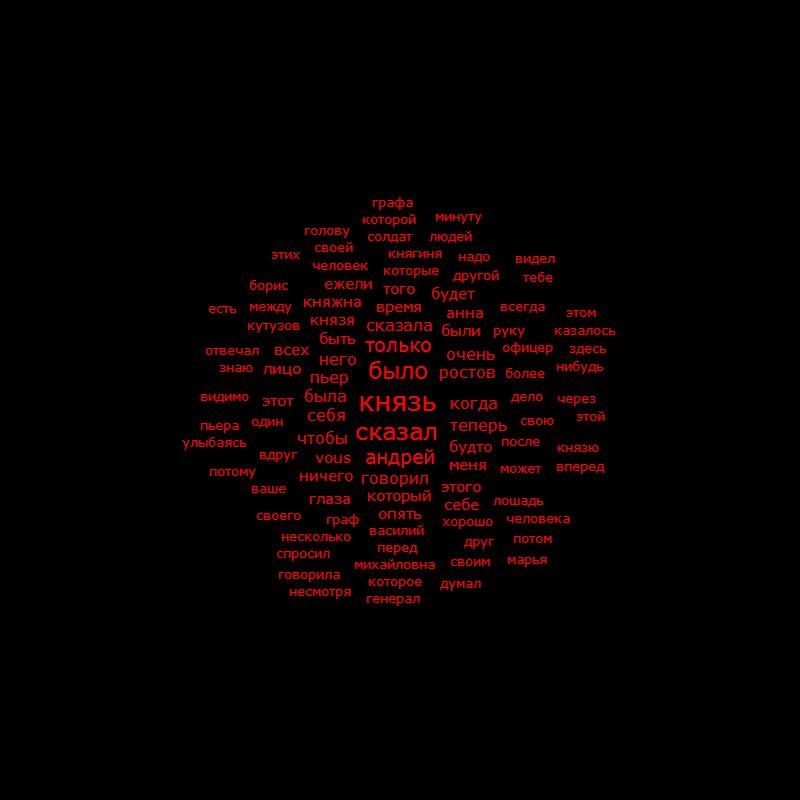
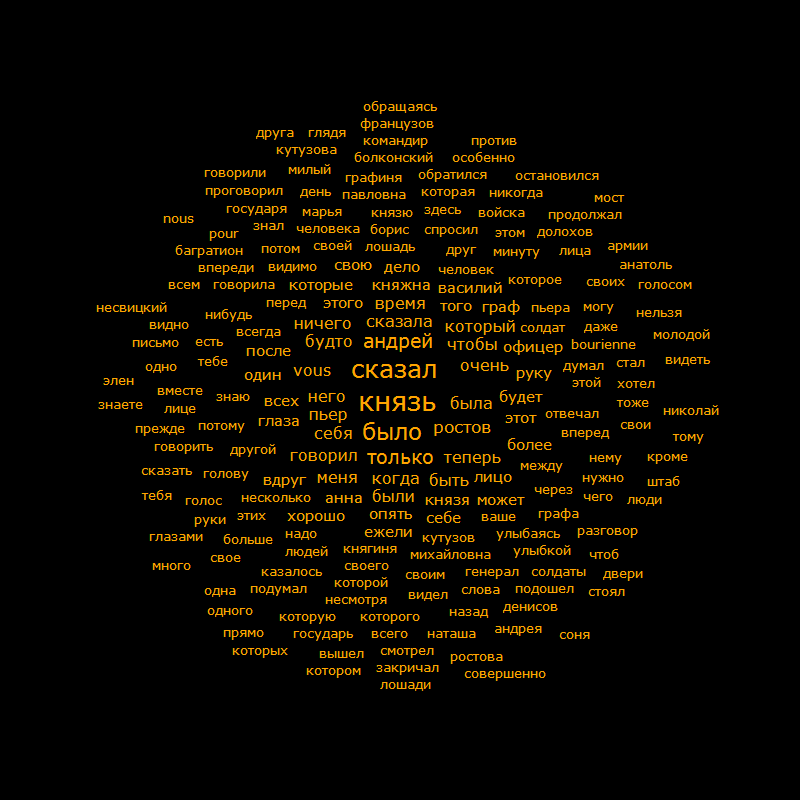
Changed tag color and fixed bmp visualizer

Changed region(s): [[0.125, 0.125, 0.9062, 0.875], [0.2188, 0.25, 0.25, 0.2812]]

diff --git a/TagsCloudApp/TagsCloudVisualization/BmpVisualizer.cs b/TagsCloudApp/TagsCloudVisualization/BmpVisualizer.cs
@@ -28,7 +28,25 @@ namespace TagsCloudVisualization
             this.imageHeight = imageHeight;
         }
 
-        public void Visualize(Rectangle[] rectangles, string filename)
+        public void Visualize(string filename, IEnumerable<Tag> tags)
+        {
+            var bitmap = new Bitmap(imageWidth, imageHeight);
+            var graphics = Graphics.FromImage(bitmap);
+            graphics.Clear(backgroundColor);
+            DrawTags(tags, graphics);
+            bitmap.Save(filename, ImageFormat.Png);
+        }
+
+        public void DrawTags(IEnumerable<Tag> tags, Graphics graphics)
+        {
+            var brush = new SolidBrush(rectanglePen.Color);
+            foreach (var tag in tags)
+            {
+                graphics.DrawString(tag.Text, tag.TagFont, brush, tag.Place.Location);
+            }
+        }
+
+        public void VisualizeRectangles(Rectangle[] rectangles, string filename)
         {
             var bitmap = new Bitmap(imageWidth, imageHeight);
             var graphics = Graphics.FromImage(bitmap);

diff --git a/TagsCloudApp/TagsCloudVisualization/Options.cs b/TagsCloudApp/TagsCloudVisualization/Options.cs
@@ -5,8 +5,8 @@ namespace TagsCloudVisualization
 {
     public class Options
     {
-        [OptionArray('r', "rectangle_color", DefaultValue = new[] { "255", "255", "0", "0" },
-        HelpText = "ARGB channels of rectangle color")]
+        [OptionArray('t', "tag_color", DefaultValue = new[] { "255", "255", "165", "0" },
+        HelpText = "ARGB channels of tag color")]
         public string[] RectangleColor { get; set; }
 
         [OptionArray('b', "background_color", DefaultValue = new[] { "255", "0", "0", "0" },

diff --git a/TagsCloudApp/TagsCloudVisualization/UnitTests/LayouterTests.cs b/TagsCloudApp/TagsCloudVisualization/UnitTests/LayouterTests.cs
@@ -135,7 +135,7 @@ namespace TagsCloudVisualization.UnitTests
             var dir = TestContext.CurrentContext.TestDirectory;
             var testName = TestContext.CurrentContext.Test.Name;
             var path = dir + testName + ".bmp";
-            visualizator.Visualize(cloudLayouter.Rectangles, path);
+            visualizator.VisualizeRectangles(cloudLayouter.Rectangles, path);
             Console.WriteLine("Tag cloud visualization saved to file " + path);
         }
     }

diff --git a/TagsCloudApp/TagsCloudVisualization/UnitTests/LayouterWithEndlessSpiralTests.cs b/TagsCloudApp/TagsCloudVisualization/UnitTests/LayouterWithEndlessSpiralTests.cs
@@ -134,7 +134,7 @@ namespace TagsCloudVisualization.UnitTests
             var dir = TestContext.CurrentContext.TestDirectory;
             var testName = TestContext.CurrentContext.Test.Name;
             var path = dir + testName + ".bmp";
-            visualizator.Visualize(cloudLayouter.Rectangles, path);
+            visualizator.VisualizeRectangles(cloudLayouter.Rectangles, path);
             Console.WriteLine("Tag cloud visualization saved to file " + path);
         }
     }

diff --git a/TagsCloudApp/TagsCloudVisualization/Program.cs b/TagsCloudApp/TagsCloudVisualization/Program.cs
@@ -38,7 +38,7 @@ namespace TagsCloudVisualization
             var mostPopularWords = statistics
                 .OrderByDescending(entry => entry.Value)
                 .ThenBy(entry => entry.Key)
-                .Take(100)
+                .Take(200)
                 .ToArray();
 
 
